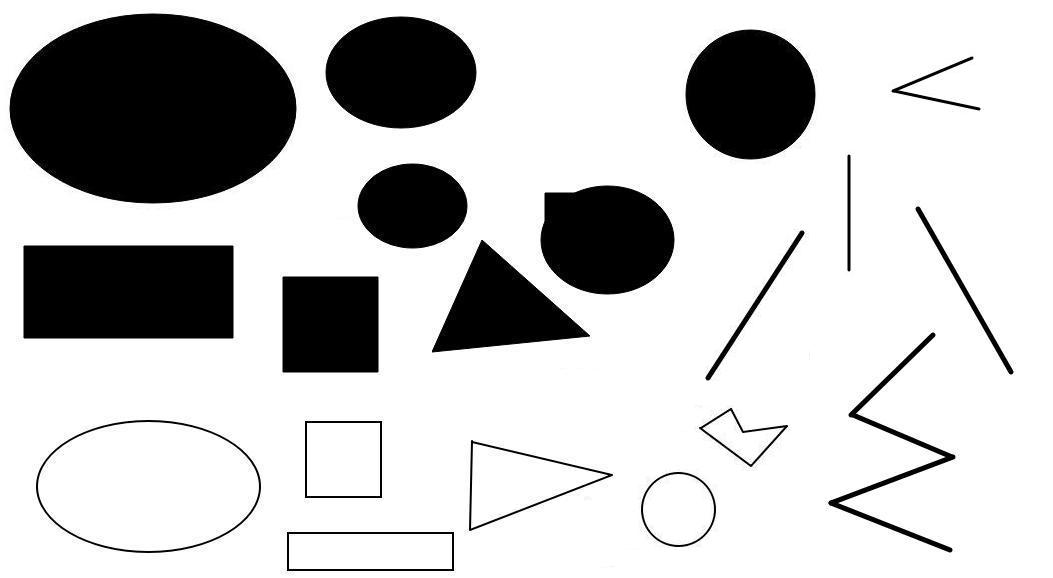
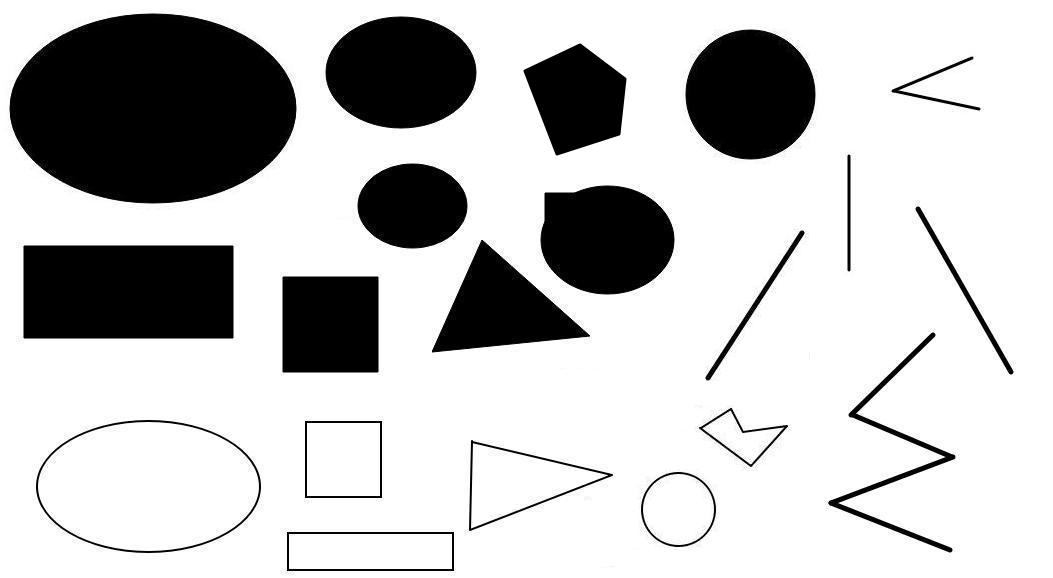
Highlighting just convex polygons

Changed region(s): [[0.4862, 0.0623, 0.6078, 0.2803]]

diff --git a/Polygon.py b/Polygon.py
@@ -81,6 +81,7 @@ class Polygon:
 
     # If circle - return 2, ellipse - 1, else - 0
     def is_ellipse(self, epsilon = 0.05):
+        # Not convex figures we mark as Zero contour type
         if not self.is_convex():
             return 0
         # Let's find supposed poles
@@ -118,7 +119,9 @@ class Polygon:
         for v in self.vertices:
             v = (v[0] - center[0], v[1] - center[1])
             if abs((v[0]/A)**2 + (v[1]/B)**2 - 1) > epsilon:
-                return 0
+                # We find that contour is not ellipse, so let's return 4
+                # It mean, that figure just convex
+                return 4
         # If semi axeses too close - we can decide that its a circle
         if abs(A - B) < 1:
             return 2

diff --git a/Shapes.py b/Shapes.py
@@ -17,7 +17,7 @@ class ShapeDetector:
         self.contours = None
         # On result image we'll highlight every kind of figure in some color
         # 1 - ellipses, 2 - circles, 3 - triangles, -1 - squares, -2 - rectangles,
-        # -3 - chains, -4 periods
+        # -3 - chains, -4 periods, 4 - convex polygons (> 4 vertices)
         # 0 - other unclassified figures
         self.colors = {
             -4: (121, 50, 168),
@@ -27,7 +27,8 @@ class ShapeDetector:
              0: (66, 233, 245),
              1: (66, 245, 170),
              2: (138, 245, 66),
-             3: (245, 212, 66)
+             3: (245, 212, 66),
+             4: (227, 20, 55)
         }
 
     def show_image(self):
